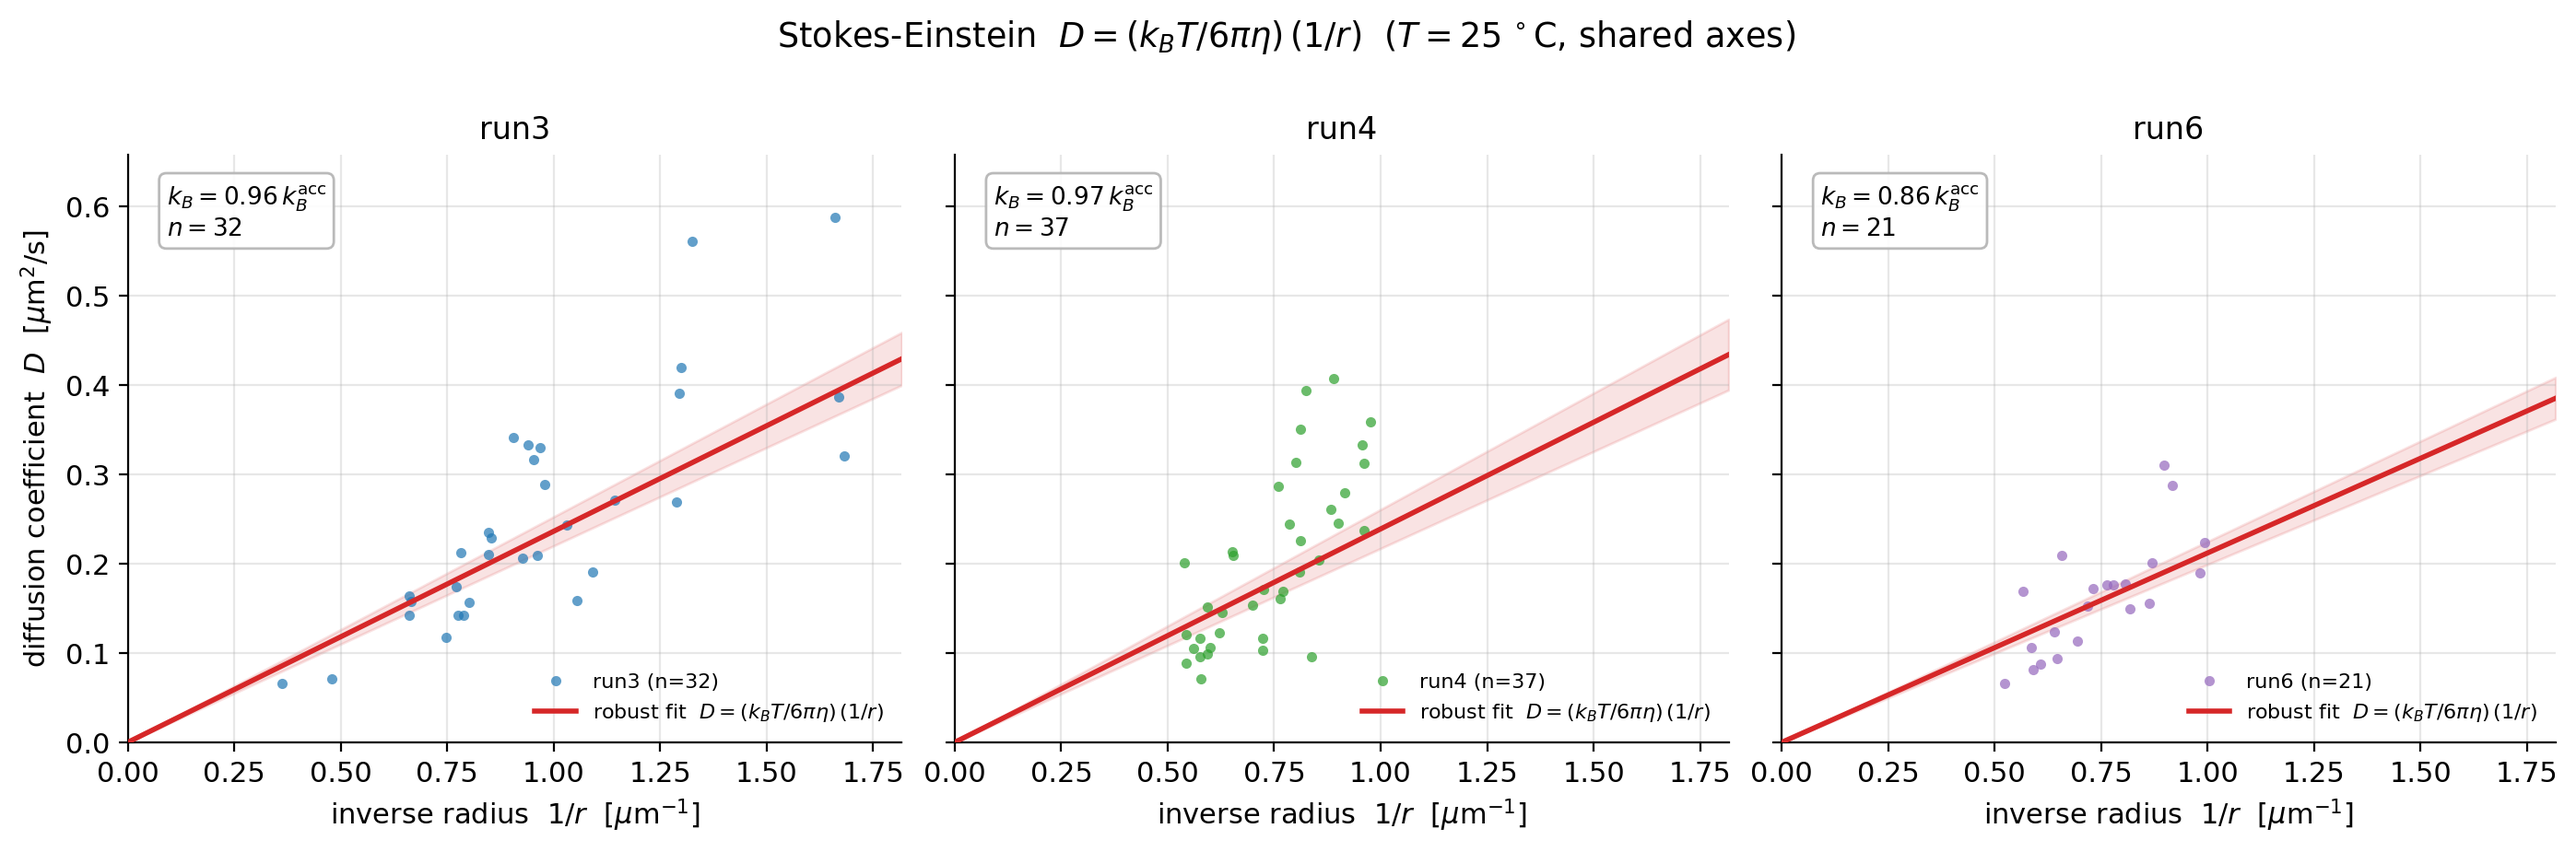
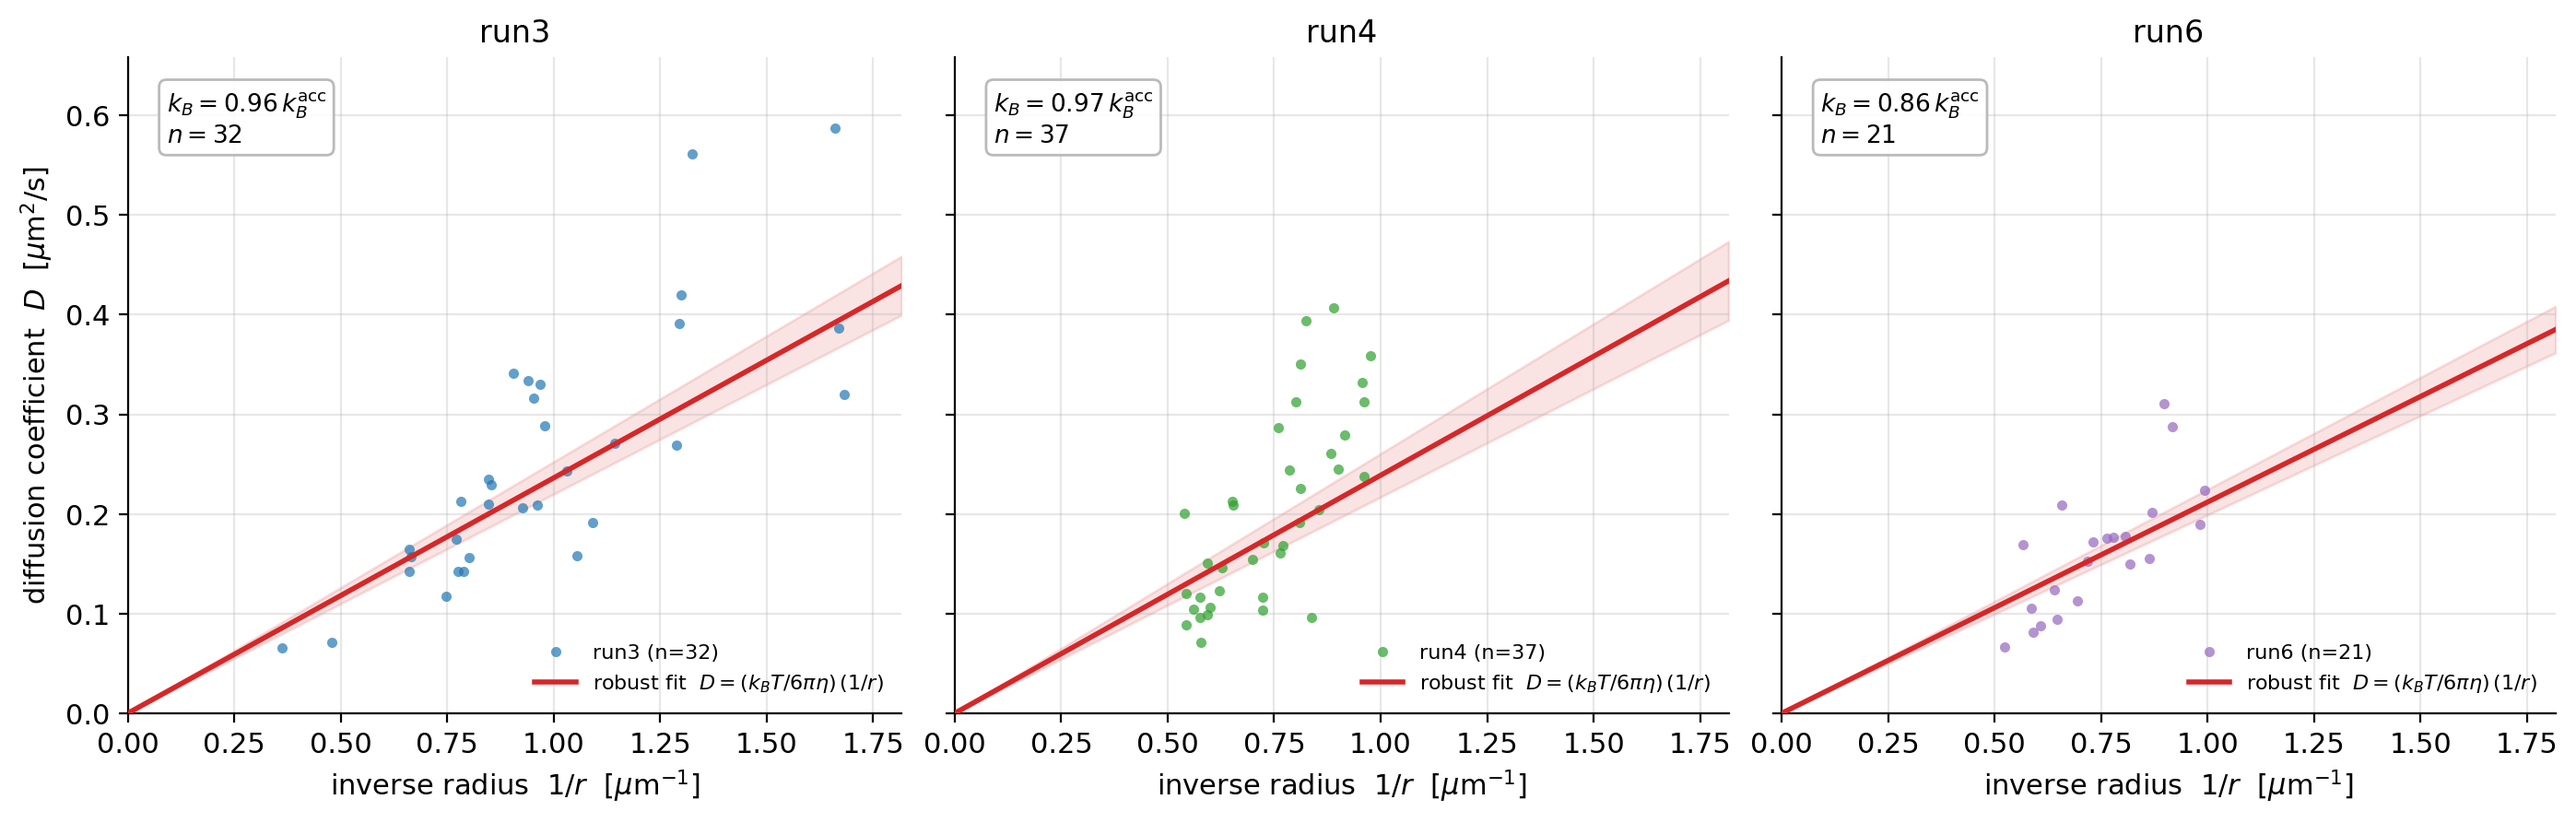
Remove suptitle from plot2 grid (match locked design)

diff --git a/experiments/week1-system-calibration/report/plot2_grid.py b/experiments/week1-system-calibration/report/plot2_grid.py
@@ -63,8 +63,6 @@ def main():
                       title=run, ylabel=(ax is axes[0, 0]))
         ax.legend(loc="lower right", fontsize=8)
 
-    fig.suptitle(rf"Stokes-Einstein  $D=(k_BT/6\pi\eta)\,(1/r)$  "
-                 rf"($T={args.T:.0f}\,^\circ$C, shared axes)", y=1.0)
     fig.tight_layout()
 
     tag = "-".join(r.replace("run", "") for r in args.runs)
